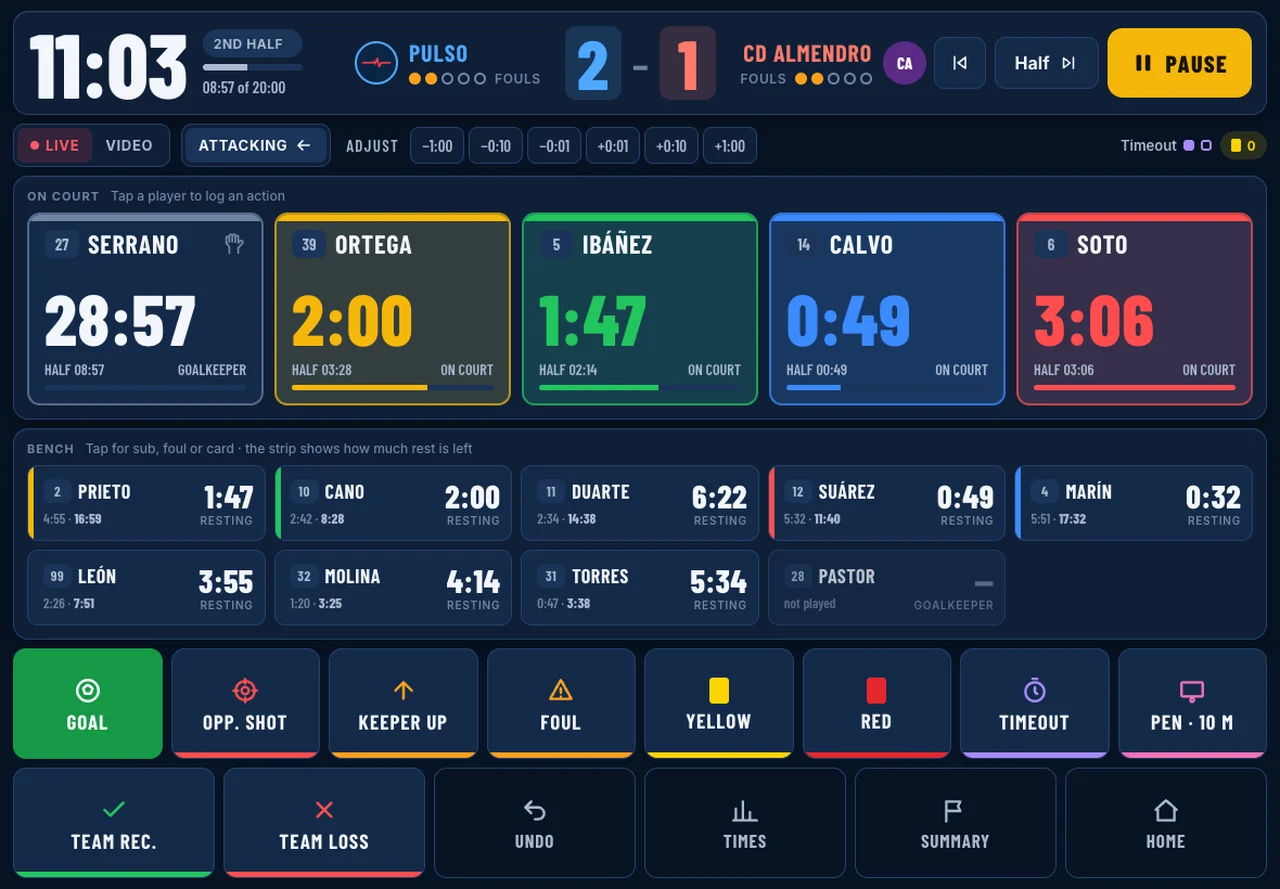
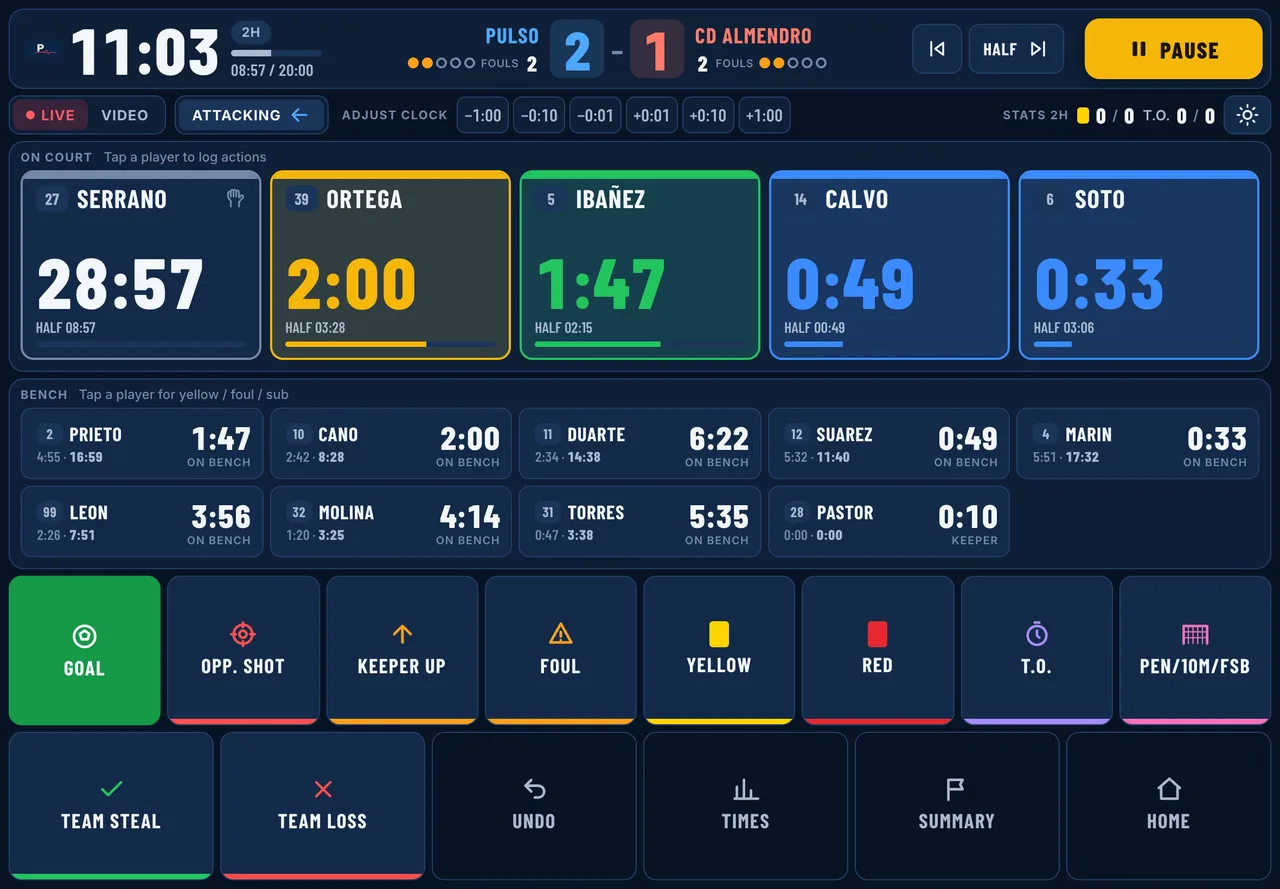
Crono: capturas reales del aspecto nuevo en lugar de las maquetas
Las ocho imágenes del crono (castellano e inglés) salen ahora del crono de
verdad (rama rediseno-tanda6, demo con datos inventados). La del jugador va
en modo Sol, y su pie lo dice.

diff --git a/index.html b/index.html
@@ -69,7 +69,7 @@
   <div class="envoltura">
     <div class="cabeza"><span class="etiqueta">El crono de partido</span><h2>Tú apuntas el partido. El informe sale solo.</h2><p>El crono y la estadística de futsal para tu banquillo, en un iPad. Sin papeles que pasar a limpio después del partido.</p></div>
     <div class="ventajas"><div class="ventaja"><strong>Un iPad</strong><span>Es todo lo que necesitas en el banquillo.</span></div><div class="ventaja"><strong>Sin cobertura</strong><span>Internet solo la primera vez. En el partido, no hace falta.</span></div><div class="ventaja"><strong>Sin instalar</strong><span>Ninguna tienda de apps. Se abre una dirección y ya está.</span></div></div>
-    <p class="desliza" aria-hidden="true">Desliza para ver más →</p><div class="capturas"><figure class="oscura"><a href="img/es/crono_02_nuevo.webp" target="_blank" rel="noopener" aria-label="Preparar el partido (se abre a tamaño completo)"><img src="img/es/crono_02_nuevo.webp" width="1280" height="889" alt="Preparar el partido. Rival, convocados y los cinco que salen. La competición fija la duración y la prórroga." loading="lazy" decoding="async"></a><figcaption><strong>Preparar el partido</strong><span>Rival, convocados y los cinco que salen. La competición fija la duración y la prórroga.</span></figcaption></figure><figure class="oscura"><a href="img/es/crono_03_directo.webp" target="_blank" rel="noopener" aria-label="El partido en directo (se abre a tamaño completo)"><img src="img/es/crono_03_directo.webp" width="1280" height="889" alt="El partido en directo. Reloj, marcador y faltas arriba. En pista, cuánto lleva cada uno. En el banquillo, cuánto descansa." loading="lazy" decoding="async"></a><figcaption><strong>El partido en directo</strong><span>Reloj, marcador y faltas arriba. En pista, cuánto lleva cada uno. En el banquillo, cuánto descansa.</span></figcaption></figure><figure class="oscura"><a href="img/es/crono_05_jugador.webp" target="_blank" rel="noopener" aria-label="Tocas a un jugador (se abre a tamaño completo)"><img src="img/es/crono_05_jugador.webp" width="1280" height="889" alt="Tocas a un jugador. Robo, corte, pérdida, disparo, falta o tarjeta. Y el cambio, en la misma ventana." loading="lazy" decoding="async"></a><figcaption><strong>Tocas a un jugador</strong><span>Robo, corte, pérdida, disparo, falta o tarjeta. Y el cambio, en la misma ventana.</span></figcaption></figure><figure class="oscura"><a href="img/es/crono_04_gol.webp" target="_blank" rel="noopener" aria-label="Apuntar un gol (se abre a tamaño completo)"><img src="img/es/crono_04_gol.webp" width="1280" height="889" alt="Apuntar un gol. Goleador, asistente y jugada. Quién estaba en pista se guarda solo: ya tienes el quinteto del gol." loading="lazy" decoding="async"></a><figcaption><strong>Apuntar un gol</strong><span>Goleador, asistente y jugada. Quién estaba en pista se guarda solo: ya tienes el quinteto del gol.</span></figcaption></figure><figure class="oscura"><a href="img/es/crono_06_resumen.webp" target="_blank" rel="noopener" aria-label="El resumen, en cualquier momento (se abre a tamaño completo)"><img src="img/es/crono_06_resumen.webp" width="1280" height="889" alt="El resumen, en cualquier momento. En mitad del partido o en el descanso: disparos de los dos equipos, pérdidas y recuperaciones." loading="lazy" decoding="async"></a><figcaption><strong>El resumen, en cualquier momento</strong><span>En mitad del partido o en el descanso: disparos de los dos equipos, pérdidas y recuperaciones.</span></figcaption></figure><figure class="oscura"><a href="img/es/crono_09_cronograma.webp" target="_blank" rel="noopener" aria-label="Cronograma (se abre a tamaño completo)"><img src="img/es/crono_09_cronograma.webp" width="1280" height="889" alt="Cronograma. Quién estuvo en pista en cada minuto, con goles, faltas y disparos encima." loading="lazy" decoding="async"></a><figcaption><strong>Cronograma</strong><span>Quién estuvo en pista en cada minuto, con goles, faltas y disparos encima.</span></figcaption></figure><figure class="oscura"><a href="img/es/crono_10_disparos_mapa.webp" target="_blank" rel="noopener" aria-label="Mapas de disparo (se abre a tamaño completo)"><img src="img/es/crono_10_disparos_mapa.webp" width="1280" height="889" alt="Mapas de disparo. Desde dónde se tira y a qué parte de la portería. Con el partido pasado en vídeo." loading="lazy" decoding="async"></a><figcaption><strong>Mapas de disparo</strong><span>Desde dónde se tira y a qué parte de la portería. Con el partido pasado en vídeo.</span></figcaption></figure><figure class="oscura"><a href="img/es/crono_13_totales.webp" target="_blank" rel="noopener" aria-label="Totales de la temporada (se abre a tamaño completo)"><img src="img/es/crono_13_totales.webp" width="1280" height="889" alt="Totales de la temporada. Todos los partidos sumados, en el propio iPad. Con copia de seguridad para pasarlo a otro." loading="lazy" decoding="async"></a><figcaption><strong>Totales de la temporada</strong><span>Todos los partidos sumados, en el propio iPad. Con copia de seguridad para pasarlo a otro.</span></figcaption></figure></div>
+    <p class="desliza" aria-hidden="true">Desliza para ver más →</p><div class="capturas"><figure class="oscura"><a href="img/es/crono_02_nuevo.webp" target="_blank" rel="noopener" aria-label="Preparar el partido (se abre a tamaño completo)"><img src="img/es/crono_02_nuevo.webp" width="1280" height="889" alt="Preparar el partido. Rival, convocados y los cinco que salen. La competición fija la duración y la prórroga." loading="lazy" decoding="async"></a><figcaption><strong>Preparar el partido</strong><span>Rival, convocados y los cinco que salen. La competición fija la duración y la prórroga.</span></figcaption></figure><figure class="oscura"><a href="img/es/crono_03_directo.webp" target="_blank" rel="noopener" aria-label="El partido en directo (se abre a tamaño completo)"><img src="img/es/crono_03_directo.webp" width="1280" height="889" alt="El partido en directo. Reloj, marcador y faltas arriba. En pista, cuánto lleva cada uno. En el banquillo, cuánto descansa." loading="lazy" decoding="async"></a><figcaption><strong>El partido en directo</strong><span>Reloj, marcador y faltas arriba. En pista, cuánto lleva cada uno. En el banquillo, cuánto descansa.</span></figcaption></figure><figure class="oscura"><a href="img/es/crono_05_jugador.webp" target="_blank" rel="noopener" aria-label="Tocas a un jugador (se abre a tamaño completo)"><img src="img/es/crono_05_jugador.webp" width="1280" height="889" alt="Tocas a un jugador. Robo, corte, pérdida, disparo, falta o tarjeta. Y el cambio, en la misma ventana. Aquí, en modo Sol: claro, para pabellones con mucha luz." loading="lazy" decoding="async"></a><figcaption><strong>Tocas a un jugador</strong><span>Robo, corte, pérdida, disparo, falta o tarjeta. Y el cambio, en la misma ventana. Aquí, en modo Sol: claro, para pabellones con mucha luz.</span></figcaption></figure><figure class="oscura"><a href="img/es/crono_04_gol.webp" target="_blank" rel="noopener" aria-label="Apuntar un gol (se abre a tamaño completo)"><img src="img/es/crono_04_gol.webp" width="1280" height="889" alt="Apuntar un gol. Goleador, asistente y jugada. Quién estaba en pista se guarda solo: ya tienes el quinteto del gol." loading="lazy" decoding="async"></a><figcaption><strong>Apuntar un gol</strong><span>Goleador, asistente y jugada. Quién estaba en pista se guarda solo: ya tienes el quinteto del gol.</span></figcaption></figure><figure class="oscura"><a href="img/es/crono_06_resumen.webp" target="_blank" rel="noopener" aria-label="El resumen, en cualquier momento (se abre a tamaño completo)"><img src="img/es/crono_06_resumen.webp" width="1280" height="889" alt="El resumen, en cualquier momento. En mitad del partido o en el descanso: disparos de los dos equipos, pérdidas y recuperaciones." loading="lazy" decoding="async"></a><figcaption><strong>El resumen, en cualquier momento</strong><span>En mitad del partido o en el descanso: disparos de los dos equipos, pérdidas y recuperaciones.</span></figcaption></figure><figure class="oscura"><a href="img/es/crono_09_cronograma.webp" target="_blank" rel="noopener" aria-label="Cronograma (se abre a tamaño completo)"><img src="img/es/crono_09_cronograma.webp" width="1280" height="889" alt="Cronograma. Quién estuvo en pista en cada minuto, con goles, faltas y disparos encima." loading="lazy" decoding="async"></a><figcaption><strong>Cronograma</strong><span>Quién estuvo en pista en cada minuto, con goles, faltas y disparos encima.</span></figcaption></figure><figure class="oscura"><a href="img/es/crono_10_disparos_mapa.webp" target="_blank" rel="noopener" aria-label="Mapas de disparo (se abre a tamaño completo)"><img src="img/es/crono_10_disparos_mapa.webp" width="1280" height="889" alt="Mapas de disparo. Desde dónde se tira y a qué parte de la portería. Con el partido pasado en vídeo." loading="lazy" decoding="async"></a><figcaption><strong>Mapas de disparo</strong><span>Desde dónde se tira y a qué parte de la portería. Con el partido pasado en vídeo.</span></figcaption></figure><figure class="oscura"><a href="img/es/crono_13_totales.webp" target="_blank" rel="noopener" aria-label="Totales de la temporada (se abre a tamaño completo)"><img src="img/es/crono_13_totales.webp" width="1280" height="889" alt="Totales de la temporada. Todos los partidos sumados, en el propio iPad. Con copia de seguridad para pasarlo a otro." loading="lazy" decoding="async"></a><figcaption><strong>Totales de la temporada</strong><span>Todos los partidos sumados, en el propio iPad. Con copia de seguridad para pasarlo a otro.</span></figcaption></figure></div>
     <div class="subtitulo"><h3>El informe del partido</h3><span>Un botón y lo tienes en PDF</span></div>
     <p class="desliza" aria-hidden="true">Desliza para ver más →</p><div class="capturas tres"><figure class="doc"><a href="img/informe_p1.webp" target="_blank" rel="noopener" aria-label="Portada (se abre a tamaño completo)"><img src="img/informe_p1.webp" width="1000" height="505" alt="Portada. Marcador, cifras clave y estadísticas comparadas con el rival." loading="lazy" decoding="async"></a><figcaption><strong>Portada</strong><span>Marcador, cifras clave y estadísticas comparadas con el rival.</span></figcaption></figure><figure class="doc"><a href="img/informe_p2.webp" target="_blank" rel="noopener" aria-label="Minutos (se abre a tamaño completo)"><img src="img/informe_p2.webp" width="971" height="694" alt="Minutos. Por parte y en total, jugador a jugador." loading="lazy" decoding="async"></a><figcaption><strong>Minutos</strong><span>Por parte y en total, jugador a jugador.</span></figcaption></figure><figure class="doc"><a href="img/informe_p3.webp" target="_blank" rel="noopener" aria-label="Métricas de cada jugador (se abre a tamaño completo)"><img src="img/informe_p3.webp" width="1000" height="639" alt="Métricas de cada jugador. Lo de cada uno en el partido, con las métricas de vídeo si se apuntó con vídeo." loading="lazy" decoding="async"></a><figcaption><strong>Métricas de cada jugador</strong><span>Lo de cada uno en el partido, con las métricas de vídeo si se apuntó con vídeo.</span></figcaption></figure></div>
     <p class="nota">Además: valoración de cada jugador, goles con su jugada y su quinteto, mapas de zona, cronograma, rotaciones y cuartetos. Se guarda en PDF desde el iPad o se envía por correo o WhatsApp. Apuntado en directo salen menos datos que pasando el partido en vídeo (sin zonas ni duelos).</p>

diff --git a/en/index.html b/en/index.html
@@ -69,7 +69,7 @@
   <div class="envoltura">
     <div class="cabeza"><span class="etiqueta">The match timer</span><h2>You log the match. The report is ready.</h2><p>Futsal timer and match stats for your bench, on an iPad. No paperwork to copy out after the match.</p></div>
     <div class="ventajas"><div class="ventaja"><strong>Just an iPad</strong><span>That is all you need on the bench.</span></div><div class="ventaja"><strong>No signal needed</strong><span>Internet only the first time. Not during the match.</span></div><div class="ventaja"><strong>Nothing to install</strong><span>No app store. Open a link and start.</span></div></div>
-    <p class="desliza" aria-hidden="true">Swipe to see more →</p><div class="capturas"><figure class="oscura"><a href="../img/en/crono_02_nuevo.webp" target="_blank" rel="noopener" aria-label="Set up the match (opens full size)"><img src="../img/en/crono_02_nuevo.webp" width="1280" height="889" alt="Set up the match. Opponent, squad and starting five. The competition sets the half length and extra time." loading="lazy" decoding="async"></a><figcaption><strong>Set up the match</strong><span>Opponent, squad and starting five. The competition sets the half length and extra time.</span></figcaption></figure><figure class="oscura"><a href="../img/en/crono_03_directo.webp" target="_blank" rel="noopener" aria-label="The live match (opens full size)"><img src="../img/en/crono_03_directo.webp" width="1280" height="889" alt="The live match. Clock, score and fouls at the top. On court: time played by each player. On the bench: rest time." loading="lazy" decoding="async"></a><figcaption><strong>The live match</strong><span>Clock, score and fouls at the top. On court: time played by each player. On the bench: rest time.</span></figcaption></figure><figure class="oscura"><a href="../img/en/crono_05_jugador.webp" target="_blank" rel="noopener" aria-label="Tap a player (opens full size)"><img src="../img/en/crono_05_jugador.webp" width="1280" height="889" alt="Tap a player. Steal, interception, turnover, shot, foul or card. And the substitution, in the same window." loading="lazy" decoding="async"></a><figcaption><strong>Tap a player</strong><span>Steal, interception, turnover, shot, foul or card. And the substitution, in the same window.</span></figcaption></figure><figure class="oscura"><a href="../img/en/crono_04_gol.webp" target="_blank" rel="noopener" aria-label="Log a goal (opens full size)"><img src="../img/en/crono_04_gol.webp" width="1280" height="889" alt="Log a goal. Scorer, assist and type of play. The players on court are saved automatically, so you have the five for each goal." loading="lazy" decoding="async"></a><figcaption><strong>Log a goal</strong><span>Scorer, assist and type of play. The players on court are saved automatically, so you have the five for each goal.</span></figcaption></figure><figure class="oscura"><a href="../img/en/crono_06_resumen.webp" target="_blank" rel="noopener" aria-label="The summary, at any moment (opens full size)"><img src="../img/en/crono_06_resumen.webp" width="1280" height="889" alt="The summary, at any moment. During the match or at half-time: shots for both teams, turnovers and recoveries." loading="lazy" decoding="async"></a><figcaption><strong>The summary, at any moment</strong><span>During the match or at half-time: shots for both teams, turnovers and recoveries.</span></figcaption></figure><figure class="oscura"><a href="../img/en/crono_09_cronograma.webp" target="_blank" rel="noopener" aria-label="Match timeline (opens full size)"><img src="../img/en/crono_09_cronograma.webp" width="1280" height="889" alt="Match timeline. Who was on court in each minute, with goals, fouls and shots on top." loading="lazy" decoding="async"></a><figcaption><strong>Match timeline</strong><span>Who was on court in each minute, with goals, fouls and shots on top.</span></figcaption></figure><figure class="oscura"><a href="../img/en/crono_10_disparos_mapa.webp" target="_blank" rel="noopener" aria-label="Shot maps (opens full size)"><img src="../img/en/crono_10_disparos_mapa.webp" width="1280" height="889" alt="Shot maps. Where shots come from and where they go in the goal. When you log the match from video." loading="lazy" decoding="async"></a><figcaption><strong>Shot maps</strong><span>Where shots come from and where they go in the goal. When you log the match from video.</span></figcaption></figure><figure class="oscura"><a href="../img/en/crono_13_totales.webp" target="_blank" rel="noopener" aria-label="Season totals (opens full size)"><img src="../img/en/crono_13_totales.webp" width="1280" height="889" alt="Season totals. Every match added up, on the iPad itself. With a backup to move it to another one." loading="lazy" decoding="async"></a><figcaption><strong>Season totals</strong><span>Every match added up, on the iPad itself. With a backup to move it to another one.</span></figcaption></figure></div>
+    <p class="desliza" aria-hidden="true">Swipe to see more →</p><div class="capturas"><figure class="oscura"><a href="../img/en/crono_02_nuevo.webp" target="_blank" rel="noopener" aria-label="Set up the match (opens full size)"><img src="../img/en/crono_02_nuevo.webp" width="1280" height="889" alt="Set up the match. Opponent, squad and starting five. The competition sets the half length and extra time." loading="lazy" decoding="async"></a><figcaption><strong>Set up the match</strong><span>Opponent, squad and starting five. The competition sets the half length and extra time.</span></figcaption></figure><figure class="oscura"><a href="../img/en/crono_03_directo.webp" target="_blank" rel="noopener" aria-label="The live match (opens full size)"><img src="../img/en/crono_03_directo.webp" width="1280" height="889" alt="The live match. Clock, score and fouls at the top. On court: time played by each player. On the bench: rest time." loading="lazy" decoding="async"></a><figcaption><strong>The live match</strong><span>Clock, score and fouls at the top. On court: time played by each player. On the bench: rest time.</span></figcaption></figure><figure class="oscura"><a href="../img/en/crono_05_jugador.webp" target="_blank" rel="noopener" aria-label="Tap a player (opens full size)"><img src="../img/en/crono_05_jugador.webp" width="1280" height="889" alt="Tap a player. Steal, interception, turnover, shot, foul or card. And the substitution, in the same window. Shown here in Sun mode: a light theme for bright venues." loading="lazy" decoding="async"></a><figcaption><strong>Tap a player</strong><span>Steal, interception, turnover, shot, foul or card. And the substitution, in the same window. Shown here in Sun mode: a light theme for bright venues.</span></figcaption></figure><figure class="oscura"><a href="../img/en/crono_04_gol.webp" target="_blank" rel="noopener" aria-label="Log a goal (opens full size)"><img src="../img/en/crono_04_gol.webp" width="1280" height="889" alt="Log a goal. Scorer, assist and type of play. The players on court are saved automatically, so you have the five for each goal." loading="lazy" decoding="async"></a><figcaption><strong>Log a goal</strong><span>Scorer, assist and type of play. The players on court are saved automatically, so you have the five for each goal.</span></figcaption></figure><figure class="oscura"><a href="../img/en/crono_06_resumen.webp" target="_blank" rel="noopener" aria-label="The summary, at any moment (opens full size)"><img src="../img/en/crono_06_resumen.webp" width="1280" height="889" alt="The summary, at any moment. During the match or at half-time: shots for both teams, turnovers and recoveries." loading="lazy" decoding="async"></a><figcaption><strong>The summary, at any moment</strong><span>During the match or at half-time: shots for both teams, turnovers and recoveries.</span></figcaption></figure><figure class="oscura"><a href="../img/en/crono_09_cronograma.webp" target="_blank" rel="noopener" aria-label="Match timeline (opens full size)"><img src="../img/en/crono_09_cronograma.webp" width="1280" height="889" alt="Match timeline. Who was on court in each minute, with goals, fouls and shots on top." loading="lazy" decoding="async"></a><figcaption><strong>Match timeline</strong><span>Who was on court in each minute, with goals, fouls and shots on top.</span></figcaption></figure><figure class="oscura"><a href="../img/en/crono_10_disparos_mapa.webp" target="_blank" rel="noopener" aria-label="Shot maps (opens full size)"><img src="../img/en/crono_10_disparos_mapa.webp" width="1280" height="889" alt="Shot maps. Where shots come from and where they go in the goal. When you log the match from video." loading="lazy" decoding="async"></a><figcaption><strong>Shot maps</strong><span>Where shots come from and where they go in the goal. When you log the match from video.</span></figcaption></figure><figure class="oscura"><a href="../img/en/crono_13_totales.webp" target="_blank" rel="noopener" aria-label="Season totals (opens full size)"><img src="../img/en/crono_13_totales.webp" width="1280" height="889" alt="Season totals. Every match added up, on the iPad itself. With a backup to move it to another one." loading="lazy" decoding="async"></a><figcaption><strong>Season totals</strong><span>Every match added up, on the iPad itself. With a backup to move it to another one.</span></figcaption></figure></div>
     <div class="subtitulo"><h3>The match report</h3><span>One button and you have the PDF</span></div>
     <p class="desliza" aria-hidden="true">Swipe to see more →</p><div class="capturas tres"><figure class="doc"><a href="../img/informe_p1.webp" target="_blank" rel="noopener" aria-label="Front page (opens full size)"><img src="../img/informe_p1.webp" width="1000" height="505" alt="Front page. Score, key numbers and stats compared with the opponent." loading="lazy" decoding="async"></a><figcaption><strong>Front page</strong><span>Score, key numbers and stats compared with the opponent.</span></figcaption></figure><figure class="doc"><a href="../img/informe_p2.webp" target="_blank" rel="noopener" aria-label="Minutes (opens full size)"><img src="../img/informe_p2.webp" width="971" height="694" alt="Minutes. By half and in total, player by player." loading="lazy" decoding="async"></a><figcaption><strong>Minutes</strong><span>By half and in total, player by player.</span></figcaption></figure><figure class="doc"><a href="../img/informe_p3.webp" target="_blank" rel="noopener" aria-label="Each player&#x27;s numbers (opens full size)"><img src="../img/informe_p3.webp" width="1000" height="639" alt="Each player&#x27;s numbers. What each player did in the match, plus the video metrics when logged from video." loading="lazy" decoding="async"></a><figcaption><strong>Each player&#x27;s numbers</strong><span>What each player did in the match, plus the video metrics when logged from video.</span></figcaption></figure></div>
     <p class="nota">Also: a rating for each player, goals with their play and the five on court, zone maps, timeline, rotations and groups of four. Save it as a PDF on the iPad or send it by email or WhatsApp. A match logged live has less data than one logged from video (no zones or duels). The sample report is in Spanish; the report comes in your language.</p>

diff --git a/build.py b/build.py
@@ -83,7 +83,7 @@ T = {
         "c_caps": [
             ("02_nuevo", "Preparar el partido", "Rival, convocados y los cinco que salen. La competición fija la duración y la prórroga."),
             ("03_directo", "El partido en directo", "Reloj, marcador y faltas arriba. En pista, cuánto lleva cada uno. En el banquillo, cuánto descansa."),
-            ("05_jugador", "Tocas a un jugador", "Robo, corte, pérdida, disparo, falta o tarjeta. Y el cambio, en la misma ventana."),
+            ("05_jugador", "Tocas a un jugador", "Robo, corte, pérdida, disparo, falta o tarjeta. Y el cambio, en la misma ventana. Aquí, en modo Sol: claro, para pabellones con mucha luz."),
             ("04_gol", "Apuntar un gol", "Goleador, asistente y jugada. Quién estaba en pista se guarda solo: ya tienes el quinteto del gol."),
             ("06_resumen", "El resumen, en cualquier momento", "En mitad del partido o en el descanso: disparos de los dos equipos, pérdidas y recuperaciones."),
             ("09_cronograma", "Cronograma", "Quién estuvo en pista en cada minuto, con goles, faltas y disparos encima."),
@@ -201,7 +201,7 @@ T = {
         "c_caps": [
             ("02_nuevo", "Set up the match", "Opponent, squad and starting five. The competition sets the half length and extra time."),
             ("03_directo", "The live match", "Clock, score and fouls at the top. On court: time played by each player. On the bench: rest time."),
-            ("05_jugador", "Tap a player", "Steal, interception, turnover, shot, foul or card. And the substitution, in the same window."),
+            ("05_jugador", "Tap a player", "Steal, interception, turnover, shot, foul or card. And the substitution, in the same window. Shown here in Sun mode: a light theme for bright venues."),
             ("04_gol", "Log a goal", "Scorer, assist and type of play. The players on court are saved automatically, so you have the five for each goal."),
             ("06_resumen", "The summary, at any moment", "During the match or at half-time: shots for both teams, turnovers and recoveries."),
             ("09_cronograma", "Match timeline", "Who was on court in each minute, with goals, fouls and shots on top."),
